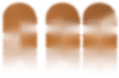
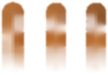
Nur senkrechte Zaunlatten hüpfen
Claude-Session: https://claude.ai/code/session_01Th1ZwhDaFACmJguCpPspif

diff --git a/index.html b/index.html
@@ -320,7 +320,7 @@ const LAYOUTS = {
     img: 'haus-voll.jpg', W: 1199, H: 2702, OFF: 790,
     win: [11, 9.5 * 1312 / 2702], win24: [16, 13 * 1312 / 2702],
     glow: [12, 10 * 1312 / 2702], glow24: [18, 14 * 1312 / 2702],
-    snowman: [1098, 1080, 165, 250], mouth: [1075, 1040], tree: [92, 1010, 185, 390], treeTop: [95, 900], lamps: [[445, 1095, 70, 110], [754, 1083, 70, 110]], chimney: [875, 150, 170, 210], smoke: [878, 45], heart: { c: [598, 206], s: [108, 100], hs: [116, 108], img: 'handy' }, fences: [{"slats": [[107.5, 1167.5, 23], [157.5, 1167.5, 29], [200.5, 1167.5, 29], [243.5, 1167.5, 31]], "patch": [177.5, 1167.5, 171]}, {"slats": [[923.5, 1168.0, 31], [966.5, 1168.0, 31], [1003.5, 1168.0, 31]], "patch": [963.5, 1168.0, 119]}], drift: [[20, 70], [1.1, 2.0]],
+    snowman: [1098, 1080, 165, 250], mouth: [1075, 1040], tree: [92, 1010, 185, 390], treeTop: [95, 900], lamps: [[445, 1095, 70, 110], [754, 1083, 70, 110]], chimney: [875, 150, 170, 210], smoke: [878, 45], heart: { c: [598, 206], s: [108, 100], hs: [116, 108], img: 'handy' }, fences: [{"slats": [[106.5, 1167.5, 19], [159.5, 1167.5, 19], [199.5, 1167.5, 19], [241.5, 1167.5, 19]], "patch": [173.5, 1167.5, 159]}, {"slats": [[923.5, 1168.0, 21], [966.5, 1168.0, 19], [1006.5, 1168.0, 19]], "patch": [964.0, 1167.5, 108]}], drift: [[20, 70], [1.1, 2.0]],
     windows: {
       1:[365,370], 2:[518,370], 3:[683,370], 4:[835,370],
       5:[288,515], 6:[447,515], 7:[602,515], 8:[762,515], 9:[916,515],
@@ -338,7 +338,7 @@ const LAYOUTS = {
   pc: {
     img: 'haus-pc.jpg', W: 1672, H: 941, OFF: 0,
     win: [6.3, 10.1], win24: [9, 20], glow: [7, 11], glow24: [10.5, 21],
-    snowman: [1232, 765, 150, 225], mouth: [1212, 720], tree: [410, 715, 180, 300], treeTop: [440, 600], lamps: [[717, 779, 70, 95], [958, 774, 70, 95]], chimney: [1045, 135, 135, 195], smoke: [1045, 55], heart: { c: [834.5, 149], s: [81, 76], hs: [89, 84], img: 'pc' }, fences: [{"slats": [[447.5, 835.5, 29], [487.5, 835.5, 29], [522.5, 835.5, 29], [560.5, 835.5, 29]], "patch": [504.0, 835.5, 150]}, {"slats": [[1075.5, 832.5, 29], [1113.5, 832.5, 31], [1151.5, 832.5, 31]], "patch": [1114.0, 832.5, 114]}], drift: [[110, 230], [0.15, 0.45]],
+    snowman: [1232, 765, 150, 225], mouth: [1212, 720], tree: [410, 715, 180, 300], treeTop: [440, 600], lamps: [[717, 779, 70, 95], [958, 774, 70, 95]], chimney: [1045, 135, 135, 195], smoke: [1045, 55], heart: { c: [834.5, 149], s: [81, 76], hs: [89, 84], img: 'pc' }, fences: [{"slats": [[446.5, 836.0, 17], [487.0, 835.5, 18], [522.5, 836.0, 17], [560.0, 835.5, 18]], "patch": [503.0, 835.5, 136]}, {"slats": [[1074.5, 834.0, 21], [1115.0, 834.0, 20], [1153.5, 834.0, 19]], "patch": [1113.0, 833.5, 104]}], drift: [[110, 230], [0.15, 0.45]],
     windows: {
       1:[665,268], 2:[778,268], 3:[893,268], 4:[1005,268],
       5:[610,372], 6:[722,372], 7:[836,372], 8:[950,372], 9:[1063,372],
